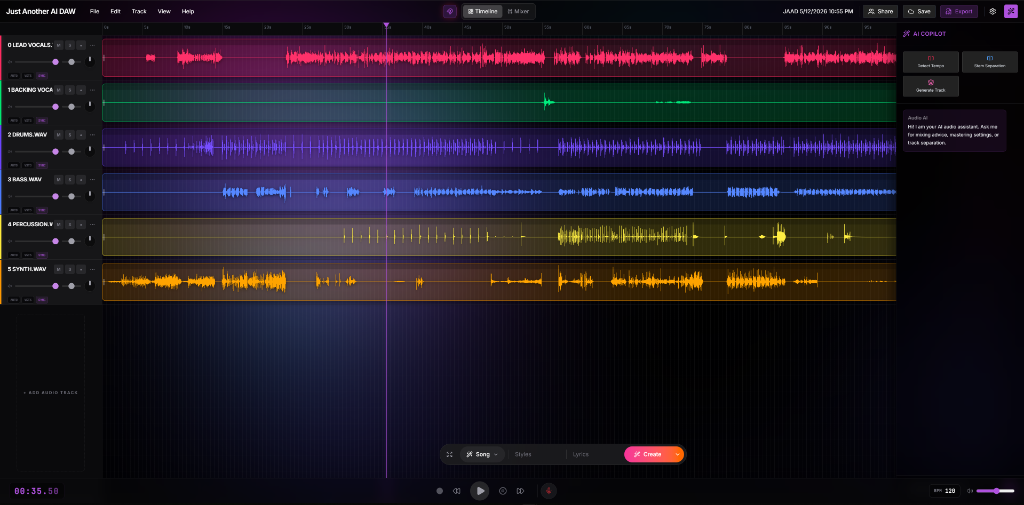
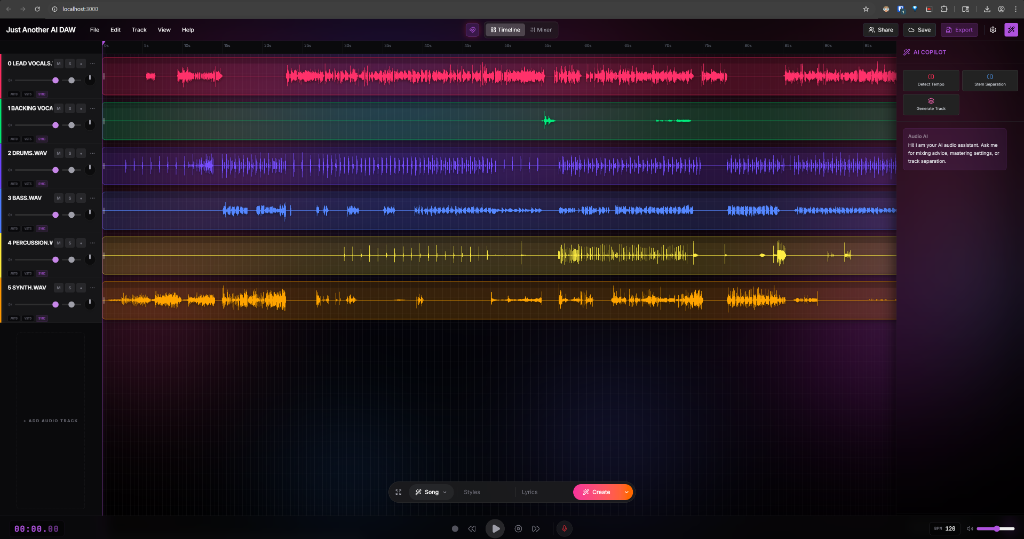
docs: update README screenshot references and add missing assets

diff --git a/README.md b/README.md
@@ -13,7 +13,7 @@ Just Another AI DAW (JAAD) is a modern, web-browser-based Digital Audio Workstat
 ## Screenshots
 
 <div align="center">
-  <img src="./assets/screenshot-2.png" alt="JAAD Interface - Empty State" width="800"/>
+  <img src="./assets/screenshot-3.png" alt="JAAD Interface - Empty State" width="800"/>
 </div>
 
 <br/>
@@ -25,7 +25,7 @@ Just Another AI DAW (JAAD) is a modern, web-browser-based Digital Audio Workstat
 <br/>
 
 <div align="center">
-  <img src="./assets/screenshot-3.png" alt="JAAD Interface - Timeline View" width="800"/>
+  <img src="./assets/screenshot-2.png" alt="JAAD Interface - Timeline View" width="800"/>
 </div>
 
 ## Features
